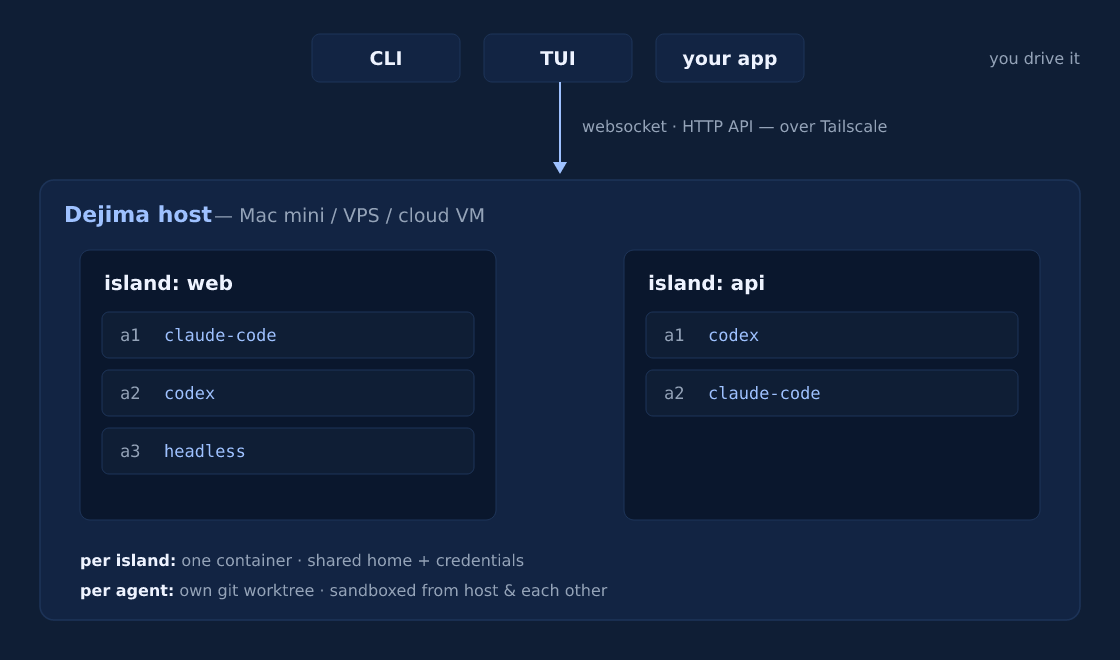
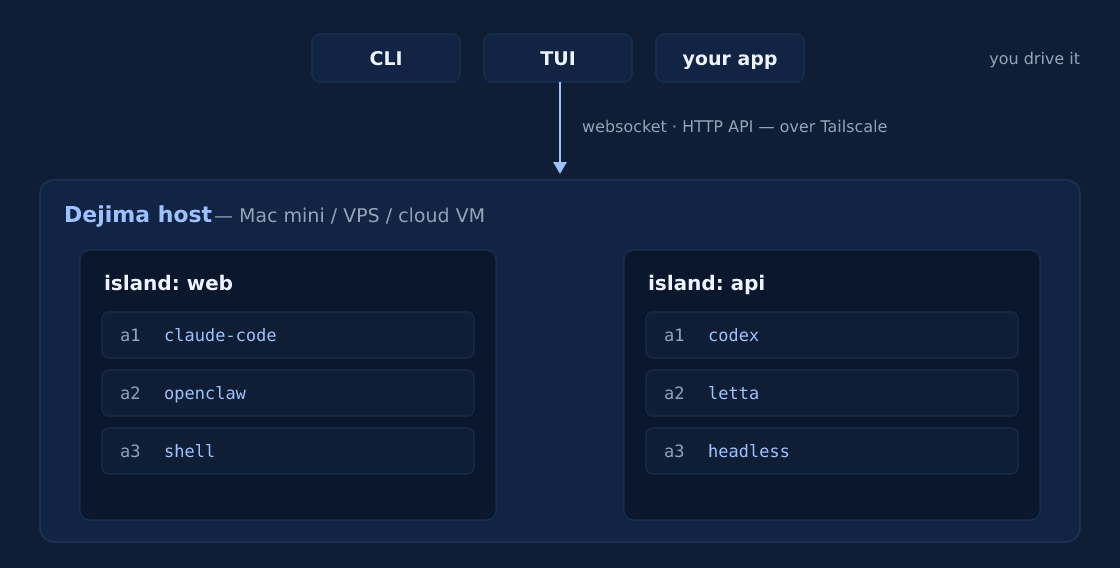
site(home): agent-type breadth, fix run verb, trim compare footnote
- Compare table: drop the long competitor-commentary footnote, keep only the '~ = partial' legend
- Why Dejima/Ease: 'dejima init' -> run 'dejima' (init provisions an island; the TUI is the run verb)
- How it works: rework 'two kinds of agents' into bullets naming real types —
  terminal (Claude Code, Codex, shell) + headless (OpenClaw, Letta, Hermes, your own loop)
- Architecture diagram: show the type variety (claude-code/openclaw/shell, codex/letta/headless),
  drop the per-island/per-agent footnotes (now carried by the blurb), shorter canvas

diff --git a/index.html b/index.html
@@ -82,7 +82,7 @@
 <h2 id="why-dejima">The hard parts of running agents, already handled</h2>
 <p><strong>You shouldn't have to become an infrastructure engineer to run agents safely.</strong> That usually means wiring up containers, networking, credentials, and session plumbing yourself. Dejima is that layer, already built — and it rests on three things:</p>
 <ul>
-  <li><strong>Ease.</strong> One line installs it; <code>dejima init</code> and you've got a sandboxed agent running in minutes. It manages the containers, sessions, git worktrees, and logins so you don't — on your Mac mini, a VPS, or your own cloud VM, same one command.</li>
+  <li><strong>Ease.</strong> One line installs it; run <code>dejima</code> and the TUI walks you to a sandboxed agent in minutes. It manages the containers, sessions, git worktrees, and logins so you don't — on your Mac mini, a VPS, or your own cloud VM, same one command.</li>
   <li><strong>Security.</strong> Every agent is walled off from your machine, your files, and the other agents; host access is deny-all, granted explicitly and read-only. The LLM calls go out, but <strong>your code, files, and auth never leave your box</strong> — auth is your Tailscale identity, not a vendor account. It fits NDA, regulated, and client-confidential work in a way a managed cloud can't.</li>
   <li><strong>Audit.</strong> Every privileged crossing is written to a tamper-evident, hash-chained ledger you can read, export, and verify — so you can <em>prove</em> what an agent did, not just hope.</li>
 </ul>
@@ -112,12 +112,12 @@
   <tr><td>Up in minutes, nothing to build</td><td><strong>✓</strong></td><td>✗</td><td>~</td><td>~</td><td>~</td><td>✓</td></tr>
 </table>
 </div>
-<p class="small"><strong>~</strong> = partial or do-it-yourself. Dejima runs tmux inside each island and adds the layer above it: isolation, a fleet on one dashboard, lifecycle controls, and an audit trail. <strong>Coder</strong> is the closest — self-hosted, parallel agents, audit logging — but it's a Kubernetes-era platform built for enterprise platform teams; Dejima is that idea sized for one person and a Mac mini. <strong>E2B</strong>'s Firecracker microVMs isolate as strongly or stronger — the difference isn't isolation, it's that with Dejima your code, files, and credentials never leave a box you own. <strong>Rivet</strong> is lightweight and self-hostable but it's agent <em>infrastructure</em> (an SDK), not a fleet dashboard you operate.</p>
+<p class="small"><strong>~</strong> = partial or do-it-yourself.</p>
 
 <h2 id="architecture">One host. Many sealed islands.</h2>
 <figure class="demo-shot diagram">
   <img src="assets/architecture.png" width="1120" loading="lazy"
-       alt="How Dejima works: you drive it from a CLI, TUI, or your own app over a websocket + HTTP API on Tailscale. That reaches the Dejima host — a Mac mini, VPS, or cloud VM — which holds islands: 'web' running claude-code, codex, and a headless agent; 'api' running codex and claude-code. Each island is one container with a shared home and credentials; each agent gets its own git worktree, sandboxed from the host and the other agents.">
+       alt="How Dejima works: you drive it from a CLI, TUI, or your own app over a websocket + HTTP API on Tailscale. That reaches the Dejima host — a Mac mini, VPS, or cloud VM — which holds islands: 'web' running claude-code, openclaw, and a shell; 'api' running codex, letta, and a headless agent. Each island is one container; each agent gets its own git worktree, sandboxed from the host and the other agents.">
 </figure>
 <details class="ascii-fallback">
   <summary>Text version</summary>
@@ -138,7 +138,12 @@
 └────────────────────────────────────────────────────────────────┘</code></pre>
 </details>
 <p>An island is one container holding <strong>one or more agents</strong>. They share the workspace, credentials, and tool-auth, but each works on its own <strong>git worktree</strong> — so they collaborate without clobbering each other. Islands can't see each other; that blindness is the security boundary.</p>
-<p class="bundled-note"><strong>Two kinds of agents.</strong> <strong>Terminal</strong> agents are CLIs you attach to (Claude Code, Codex) — a host-side bridge connects your session to the agent's tmux inside, so it survives disconnect and multiple devices share one screen. <strong>Headless</strong> agents run on their own (an SDK loop, a worker) — output captured to <code>dejima logs</code>. Both get the same isolation, lifecycle, events, and one-API management.</p>
+<p><strong>Run almost any agent.</strong> Each island holds a mix of two kinds:</p>
+<ul>
+  <li><strong>Terminal agents</strong> you attach to — <strong>Claude Code</strong>, <strong>Codex</strong>, or a plain <strong>shell</strong> (an empty, sandboxed terminal). A host-side bridge wires your session to the agent's tmux inside, so it survives disconnect and multiple devices share one screen.</li>
+  <li><strong>Headless agents</strong> that run on their own — runtimes like <strong>OpenClaw</strong>, <strong>Letta</strong>, and <strong>Hermes</strong>, or your own SDK loop or worker. Output is captured to <code>dejima logs</code>.</li>
+</ul>
+<p class="small">Both get the same isolation, lifecycle, events, and one-API management — bring your own keys and mix vendors freely.</p>
 
 <h2 id="features">Everything you need to run a fleet safely</h2>
 <ul>
